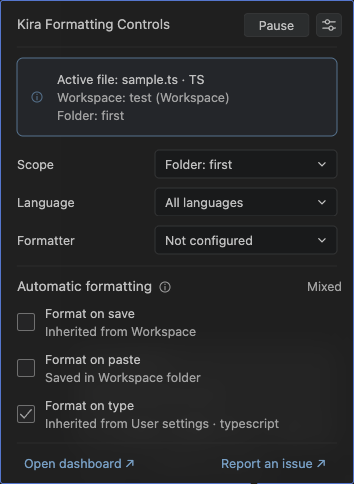
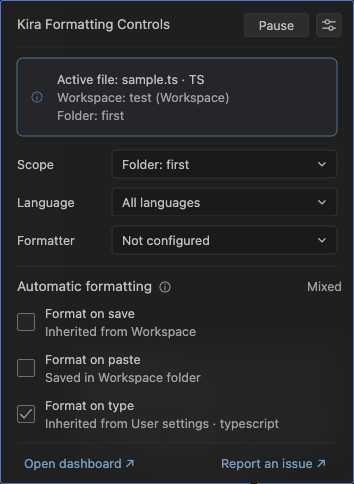
style(ui): refine dropdown spacing for 0.7.0

diff --git a/shared/status-artwork.ts b/shared/status-artwork.ts
@@ -166,8 +166,8 @@ export function statusArtwork(
   ) =>
     `<rect x="${x}" y="${y}" width="${w}" height="${h}" rx="${r}" stroke="${stroke}" fill="${fill}"/>`;
   const dropdown = (y: number, value: string) =>
-    rect(143, y, 182, 28) +
-    centeredText(153, y + 14, shortened(value, 24)) +
+    rect(100, y, 225, 28) +
+    centeredText(110, y + 14, shortened(value, 31)) +
     `<path d="M306.5 ${y + 12.25}l3.5 3.5 3.5-3.5" fill="none" stroke="${p.fg}" stroke-width="1.2"/>`;
   const svg = (height: number, contents: string, width = 330) =>
     `<svg xmlns="http://www.w3.org/2000/svg" width="${width}" height="${height}" viewBox="0 0 ${width} ${height}"><g font-family="-apple-system, BlinkMacSystemFont, Segoe WPC, Segoe UI, system-ui, Ubuntu, Droid Sans, sans-serif" font-weight="400">${contents}</g></svg>`;

diff --git a/docs/releasing.md b/docs/releasing.md
@@ -1,6 +1,6 @@
 # Release preparation
 
-Development version: 0.6.0. Display name: Kira Formatting Controls. Publisher: rajudhami. Identifier: rajudhami.formatting-controls. Node 24 LTS and Bun from packageManager are build tools; users do not need Bun to install the VSIX. VS Code supplies the extension-host runtime.
+Development version: 0.7.0. Display name: Kira Formatting Controls. Publisher: rajudhami. Identifier: rajudhami.formatting-controls. Node 24 LTS and Bun from packageManager are build tools; users do not need Bun to install the VSIX. VS Code supplies the extension-host runtime.
 
 ## Validate a candidate
 

diff --git a/README.md b/README.md
@@ -107,7 +107,7 @@ Open the folder in VS Code and press **F5** to launch the Extension Development 
 bun run package
 ```
 
-In VS Code, run **Extensions: Install from VSIX…** and select `formatting-controls-0.6.0.vsix`. A successful GitHub Actions run also provides the VSIX artifact. No Marketplace credentials are required.
+In VS Code, run **Extensions: Install from VSIX…** and select `formatting-controls-0.7.0.vsix`. A successful GitHub Actions run also provides the VSIX artifact. No Marketplace credentials are required.
 
 ## Find your flow
 

diff --git a/CHANGELOG.md b/CHANGELOG.md
@@ -1,6 +1,10 @@
 # Changelog
 
-## 0.6.0 — Unreleased
+## 0.7.0 — Unreleased
+
+- Widen the Scope, Language and Formatter dropdown displays to the left to match the approved label spacing. Keep labels, row heights, card width and formatting actions in place.
+
+## 0.6.0
 
 - Narrow the status card to 330px of content, match Pause/Resume to the 24px Settings button height, and balance Automatic formatting section padding. Keep text and icon sizes unchanged.
 
